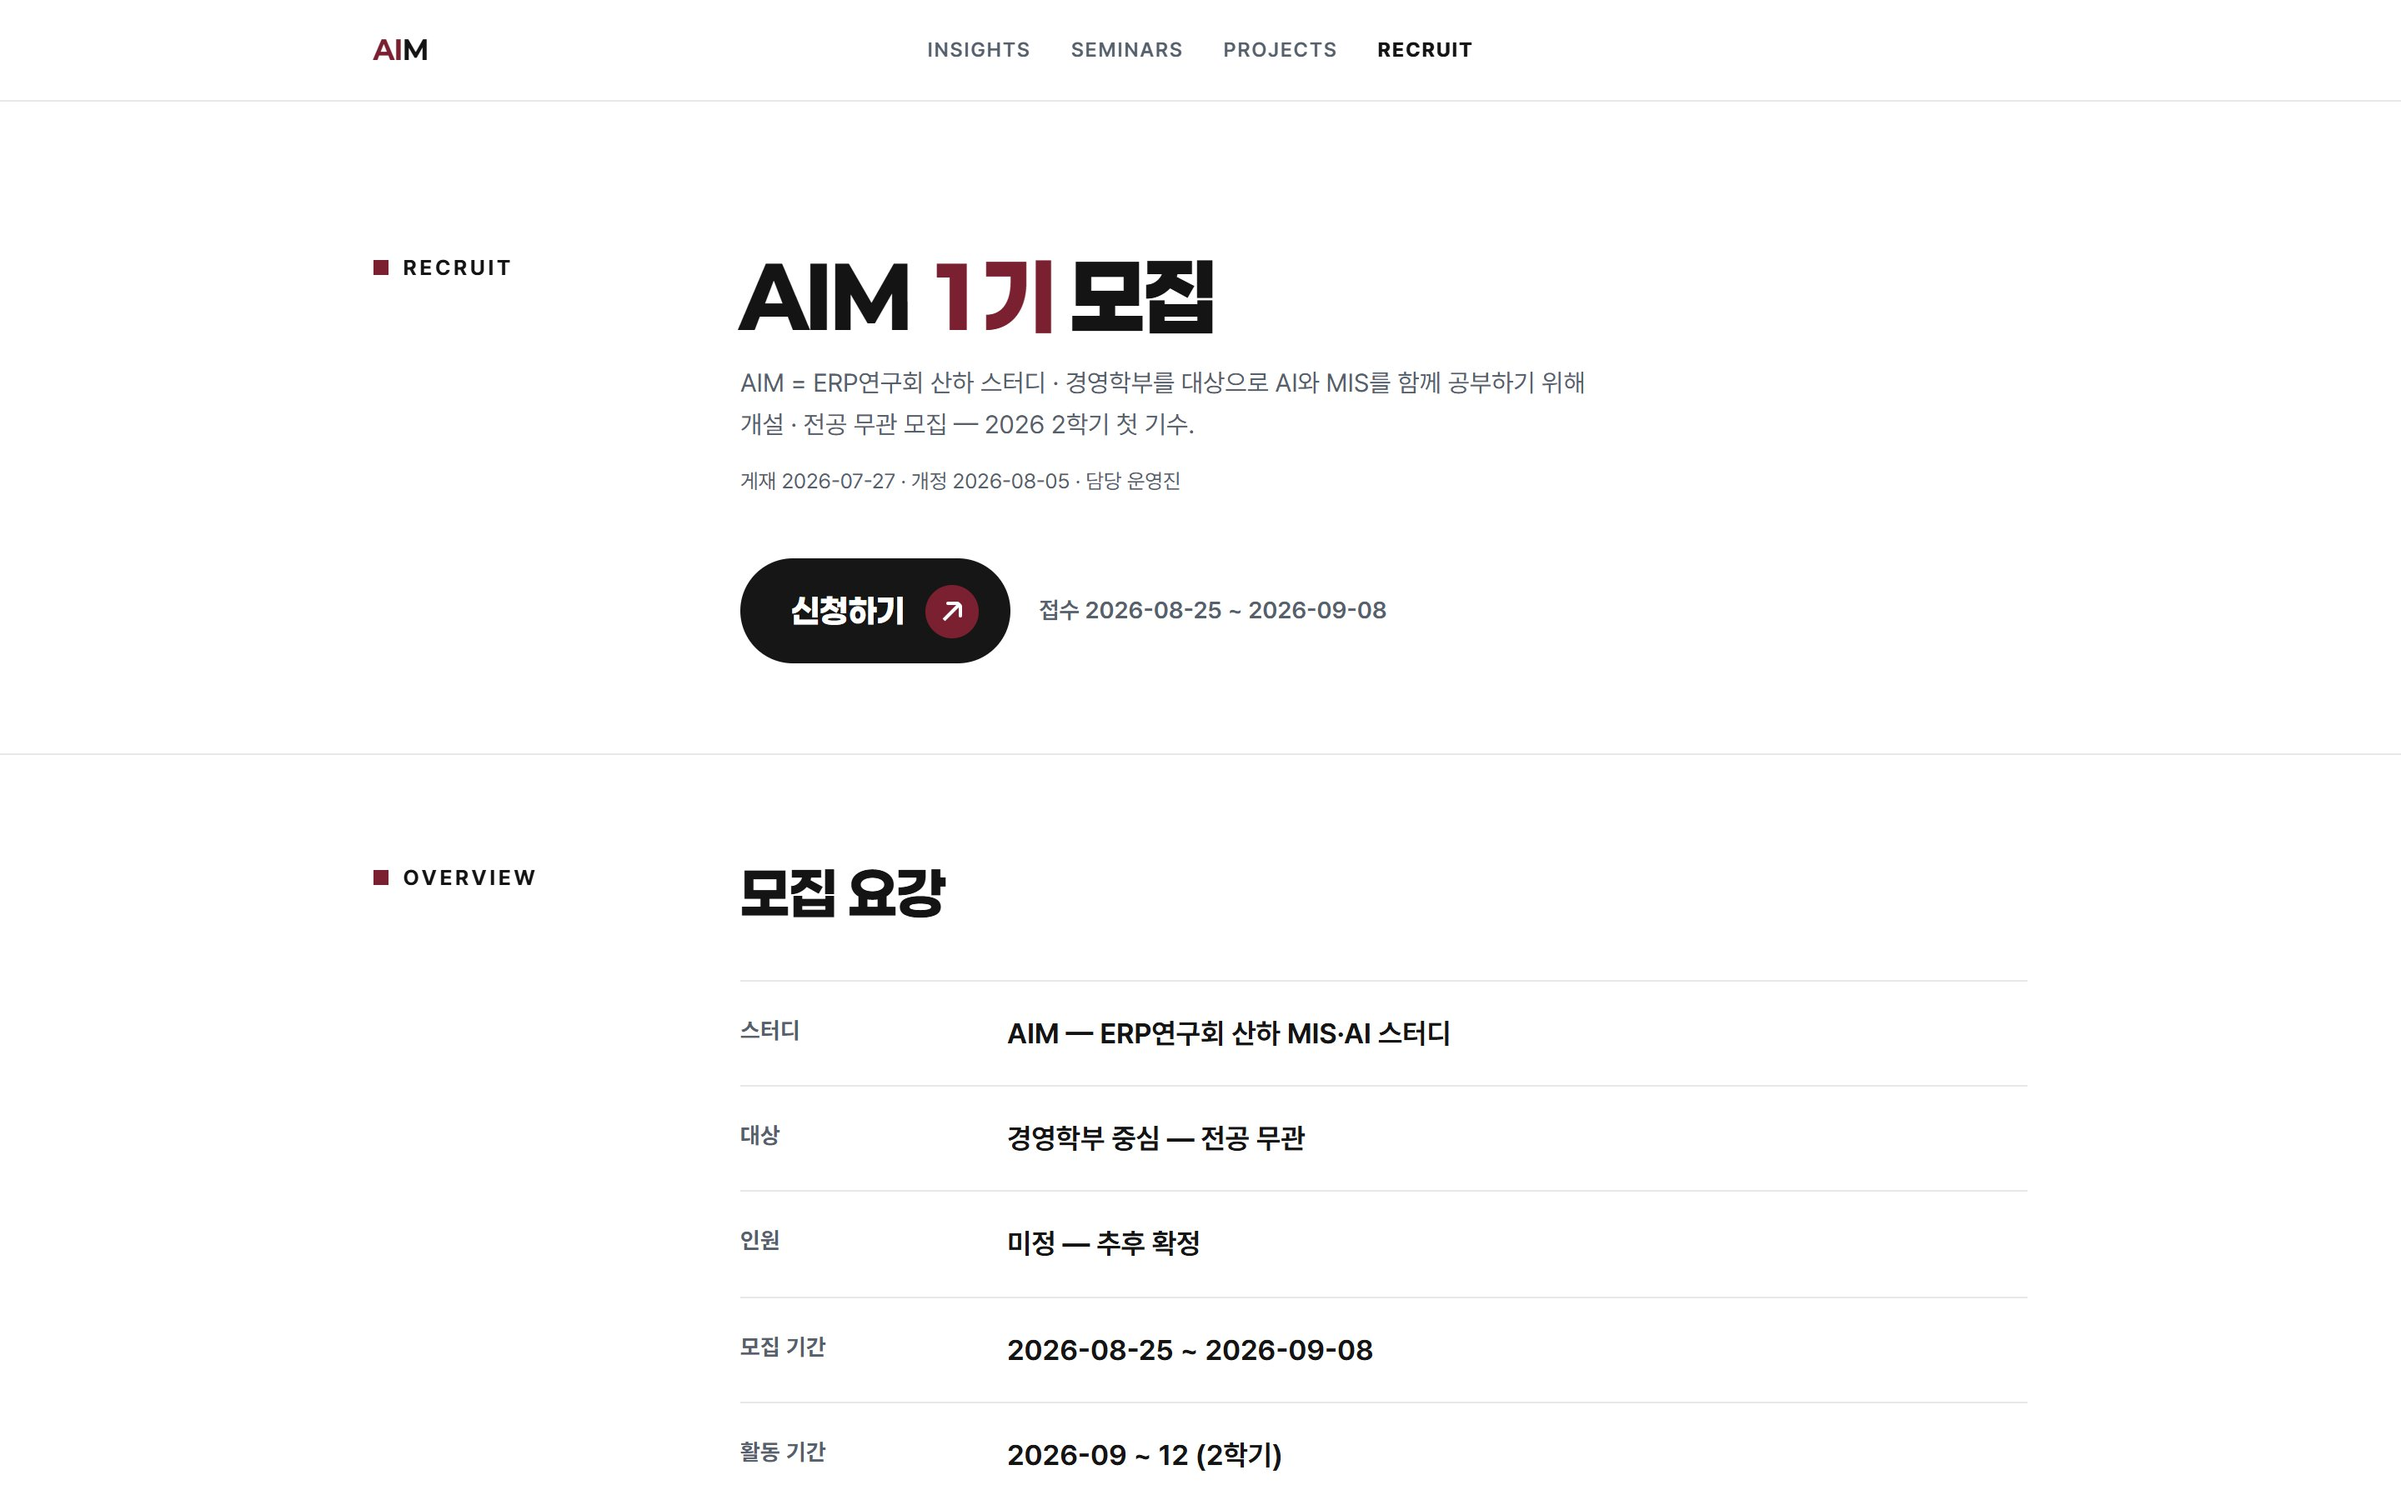
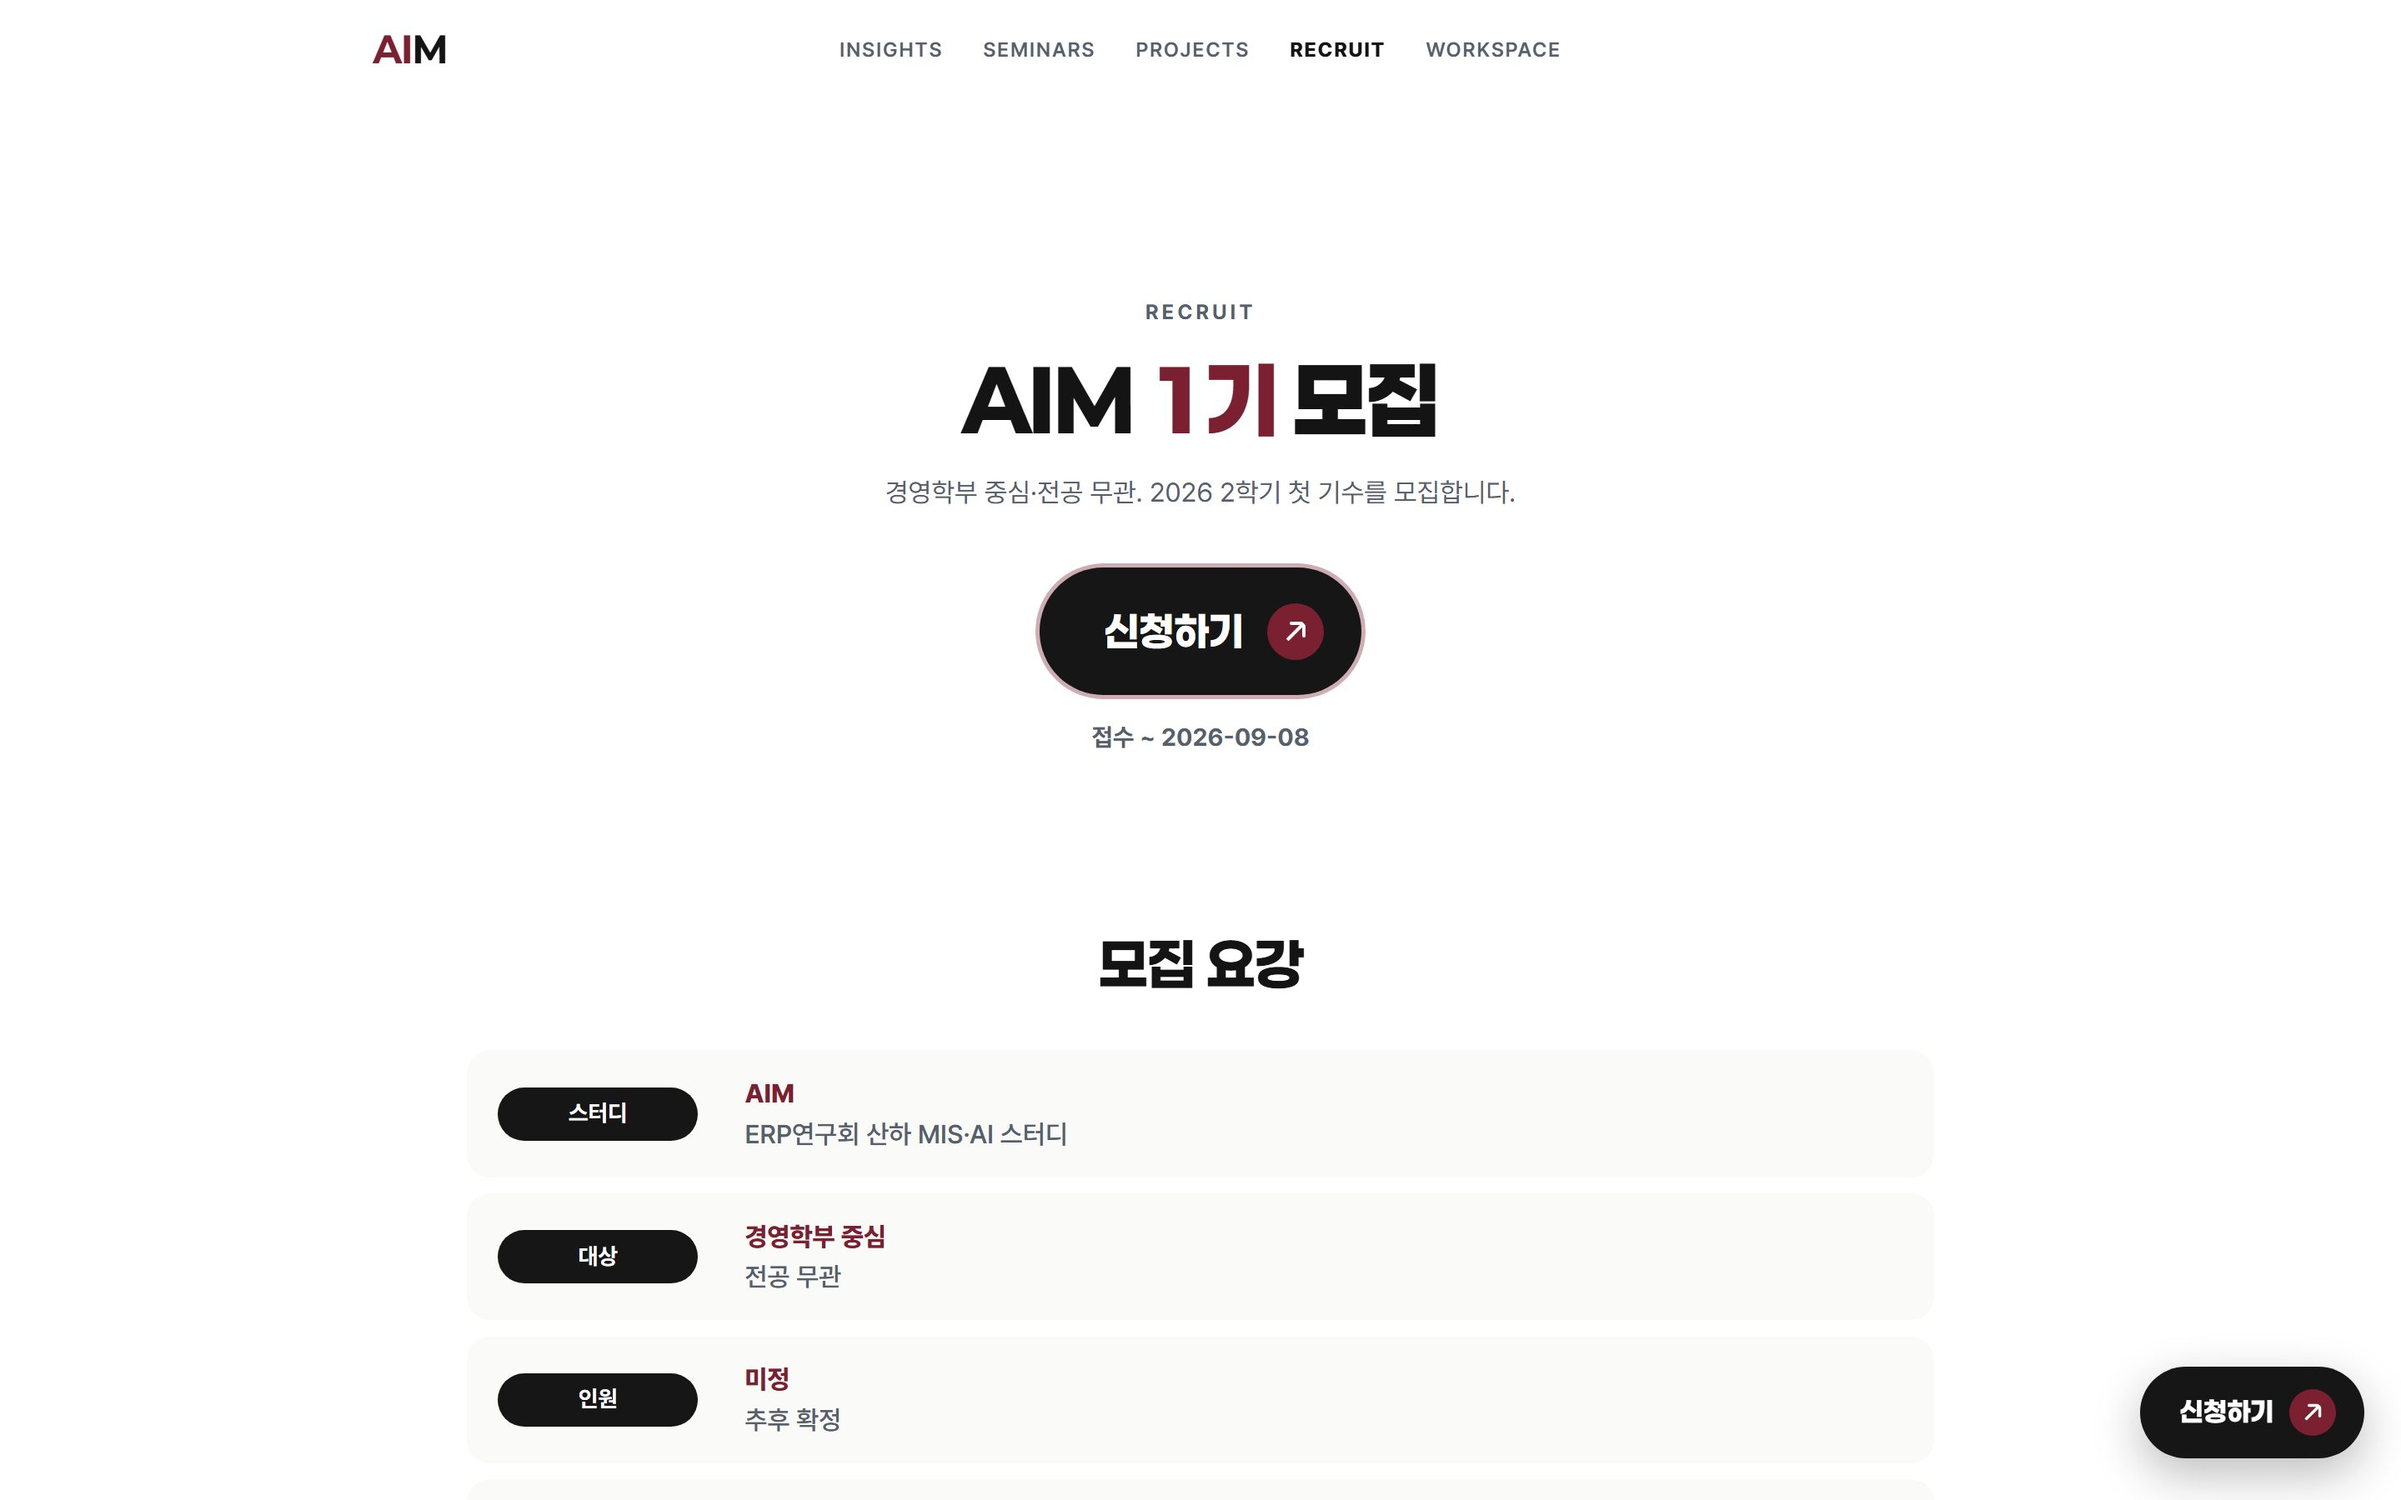
content(프로젝트): 면별 설계 근거 확장 + 캡처 재생성 스크립트 신설
오너 지적 2건: ①캡처가 다 옛날 버전 ②각 페이지가 왜 존재하고 어떤 결정으로 만들어졌는지가 없음.

- scripts/export-hub-shots.mjs 신설 — 빌드본을 띄워 1440x900@2x로 공개 6면 재촬영(명령 1줄).
  수동 캡처가 UI 변경마다 낡던 문제를 없앰. 워크스페이스는 로그인 영역이라 guide 캡처 재사용.
- 캡처 6장 전량 갱신(홈·ADsP 상세 신규 추가). 모집은 위 CSS 수리 후 촬영.
- '무엇을 하는 곳인가' 5줄 → '면별로 — 이 화면이 왜 이렇게 생겼나'로 확장:
  면 6종 각각 존재 이유 + 결정 카드 17장(질문·결정·근거·폐기한 대안).

Claude-Session: https://claude.ai/code/session_01EK8jG5QrV2V6owomETvCDL

diff --git a/app/content/프로젝트/2026-07-24-bapzzi-erpclub-site.md b/app/content/프로젝트/2026-07-24-bapzzi-erpclub-site.md
@@ -35,13 +35,74 @@ web: https://kwu-erpclub.github.io
 08-19 | ⭐베타 전환 | 고친 것을 모아서 내보내는 방식으로
 :::
 
-### 무엇을 하는 곳인가
+### 면별로 — 이 화면이 왜 이렇게 생겼나
 
-- **인사이트** = 스터디원 기고가 쌓이는 발행면. 성격·주제 필터, 시리즈(주간 트렌드) 묶음.
-- **세미나** = 회차별 발표자료·기록 아카이브.
-- **프로젝트** = 이 페이지 — 스터디가 도구를 만들고 활용한 기록.
-- **모집** = 기수 요강 + 온사이트 신청 폼. 접수부터 열람까지 외부 서비스 없이 이 사이트가 담당.
-- **워크스페이스** = 학번 로그인 영역. 기고 제출·과제 링크 제출·공지가 여기서 이뤄짐 — 작업은 각자 본인 AI와 밖에서 하고, 여기는 내는 곳. 여기에 스터디 흐름(차시별 자료·본문), 공모전·채용·자격시험 공고 보드, 관심 분야만 골라 담는 개인 캘린더가 붙어 있음.
+- 면은 "있으면 좋아서"가 아니라 막힌 것을 풀려고 생겼음. 아래는 면마다 **왜 존재하는지**와 **지금 모습을 만든 결정**.
+
+#### 홈 — 30초 안에 판단하게 하는 자리
+
+- 처음 들어온 사람이 AIM이 뭐 하는 곳인지 가늠하는 유일한 접점. 여기서 못 잡으면 나머지 면은 열리지 않음.
+
+::: 결정
+누구를 1순위 독자로 둘 것인가 | 학생 — 실무자용 증빙은 프로젝트 상세가 전담 | 두 독자를 한 면에서 만족시키려다 둘 다 놓침. 모집 대상은 학생 | 홈에서 실무 성과까지 함께 증명
+활동 실적을 숫자로 걸 것인가 | 0건인 지표는 아예 걸지 않음 | 신생 스터디가 "세미나 0회"를 걸면 채워진 것보다 빈 것이 먼저 읽힘 | 전 지표 상시 노출
+:::
+
+#### 인사이트 — 기고와 자동 발행이 만나는 곳
+
+- 스터디원 기고가 쌓이는 자리이자 자동 루틴이 쓴 기사가 게재되는 곳. 활동이 끊기지 않고 있다는 것을 보이는 유일한 흐름.
+
+::: 결정
+기사를 어디까지 믿고 낼 것인가 | 발행 전 자검 게이트 + 마무리 절 「SO WHAT」 | 게재분 전수 검수에서 사실 오류가 나왔음. 낙관으로 끝내는 글은 판단 재료가 못 됨 | 속보성 우선·사후 정정
+취업 이야기를 다룰 것인가 | 재직자만 해당하는 소재만 배제 | 전면 배제하면 학생에게 실제로 쓸모 있는 정보까지 잘림 | 취업 앵글 전면 배제
+정기물이 목록을 잠식하는 문제 | 시리즈로 묶고 필터를 붙임 | 매주 나오는 주간 트렌드가 단발 기사를 아래로 밀어냄 | 정기물과 단발을 한 줄에 섞기
+:::
+
+#### 세미나 — 결석자와 다음 기수가 되짚는 아카이브
+
+- 회차 자료가 메신저나 개인 드라이브로 흩어지면 학기가 끝나는 순간 사라짐. 남기는 것 자체가 목적.
+
+::: 결정
+목록을 어떻게 보일 것인가 | 세로 타임라인 — 진행한 만큼 채워지는 축 | 회차는 병렬 카드가 아니라 순서. 지난 것과 남은 것이 한눈에 보여야 함 | 피처 밴드 + 3열 격자 + 필터
+준비 중인 회차를 보일 것인가 | 공개 표시가 붙은 회차만 노출 | 초안 상태가 보이면 확정된 일정으로 오해됨 | 전 회차 상시 노출
+발표자료 형식 | 화면용 덱 + 인쇄용 PDF, 표지 1장이 목록 썸네일 | 줄글 인쇄물은 발표에도 복습에도 안 맞음. 썸네일을 따로 만들면 덱과 어긋남 | 줄글 상세 인쇄
+:::
+
+#### 프로젝트 — 만든 것의 증거면
+
+- "AI로 이만큼 만들 수 있다"를 말이 아니라 실물로 대신하는 자리. 지금 이 글도 그 안에 있음.
+
+::: 결정
+성공만 적을 것인가 | 실패 챕터를 따로 둠 — 사고와 원인을 함께 | 성공만 적으면 증거가 아니라 광고가 됨. 재현하려는 사람에게 필요한 건 막힌 지점 | 성과 위주 요약
+학습 자료 수치를 어디까지 공개할 것인가 | 문항 총계는 외부에 게재하지 않음 | 자체 제작이어도 총량 공개는 저작권 다툼의 여지를 남김 | 전 수치 공개
+문체 | 정보형 — 사실과 수치를 앞에 | 서사투는 읽기엔 좋지만 검증이 안 됨 | 서사 중심 서술
+:::
+
+#### 모집 — 접수부터 열람까지 사이트가 직접
+
+- 신청을 외부 폼으로 받으면 지원자 명단이 사이트 밖에 남고, 다음 기수로 넘길 때 그 자리에서 끊김.
+
+::: 결정
+신청을 무엇으로 받을 것인가 | 사이트 안의 폼 | 외부 서비스는 계정 주인이 바뀌면 접근이 끊김. 접수·열람·승인이 한 곳이어야 함 | 외부 폼 서비스
+무엇을 물어볼 것인가 | 체크형 위주, 자유 서술은 최소 | 쓸 게 많으면 지원 자체를 포기함. 분류되는 답이 운영에도 쓸모 있음 | 서술형 문항 다수
+모집 기간 표기 | 기간 값 하나에서 상태를 파생 | 날짜를 화면마다 적어두면 반드시 어긋남 | 페이지마다 날짜 직접 표기
+:::
+
+#### 워크스페이스 — 내는 곳
+
+- 공개면에 둘 수 없는 것(제출물·명단·미공개 자료)이 있고, 그렇다고 별도 도구를 쓰면 기록이 또 흩어짐.
+- 작업은 각자 본인 AI와 밖에서 하고 **여기는 내는 곳**. 도구를 하나 더 배우게 하지 않는 것이 원칙.
+
+::: 결정
+차시 자료를 언제 열 것인가 | 공개일 전에는 잠금 | 미리 열리면 예습이 아니라 진도 스포일러가 됨. 잠긴 상태도 정보(다음에 뭐가 오는지) | 등록 즉시 공개
+공고를 전원에게 보낼 것인가 | 관심 분야를 고른 사람의 캘린더에만 합류 | 다 보내면 아무도 안 봄. 학사 일정만 기본값 | 전체 공지로 일괄 발송
+탭을 몇 개로 둘 것인가 | 6종 — 북마크는 내정보로 흡수 | 탭이 늘수록 어디에 뭐가 있는지 모름. 저장해둔 것은 내 정보의 일부 | 기능마다 탭 신설
+:::
+
+::: 비교
+/img/guide/home.jpg | 워크스페이스 홈 — 공지·다가오는 업무·캘린더
+/img/guide/postings.jpg | 공고 탭 — 분류별 스크랩과 관심 등록
+:::
 
 ### 07-22~27 · 재건 — 갈아엎고 다시 세운 틀
 
@@ -101,11 +162,15 @@ web: https://kwu-erpclub.github.io
 ### 지금의 허브
 
 ::: 비교
-/img/projects/hub/shot-insights.jpg | 인사이트 — 피처·성격 필터·썸네일 카드
-/img/projects/hub/shot-seminars.jpg | 세미나 — 다음 회차 밴드·아카이브
-/img/projects/hub/shot-projects.jpg | 프로젝트 — 실측 지표 밴드·쇼케이스
-/img/projects/hub/shot-recruit.jpg | 모집 — 1기 요강·온사이트 신청 폼
+/img/projects/hub/shot-home.jpg | 홈 — 정중앙 키비주얼과 한 줄 정의
+/img/projects/hub/shot-insights.jpg | 인사이트 — 시리즈 필터·썸네일 카드
+/img/projects/hub/shot-seminars.jpg | 세미나 — 진행한 만큼 채워지는 세로 타임라인
+/img/projects/hub/shot-projects.jpg | 프로젝트 — 만든 것의 목록
+/img/projects/hub/shot-adsp.jpg | ADsP 상세 — 스크롤로 따라가는 제작 기록
+/img/projects/hub/shot-recruit.jpg | 모집 — 1기 요강·사이트 안 신청 폼
 :::
+
+- 위 캡처는 **명령 한 줄로 다시 만듦**(빌드본을 띄워 같은 규격으로 재촬영). 화면이 바뀔 때마다 손으로 찍던 것이 낡아 어긋나던 문제를 없앰.
 
 ### 왜 의미가 있는가
 
